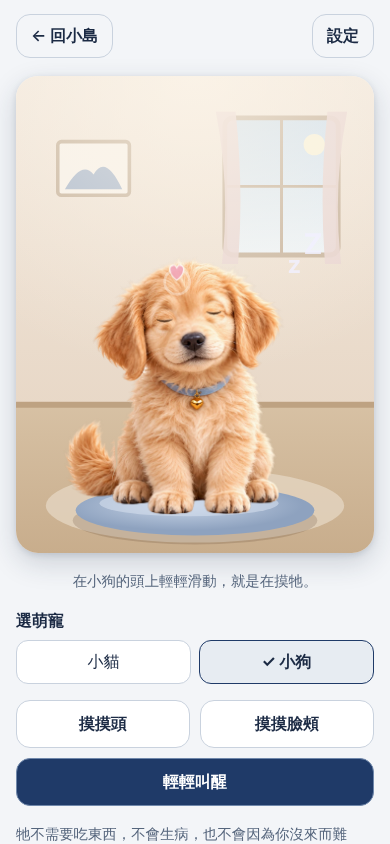
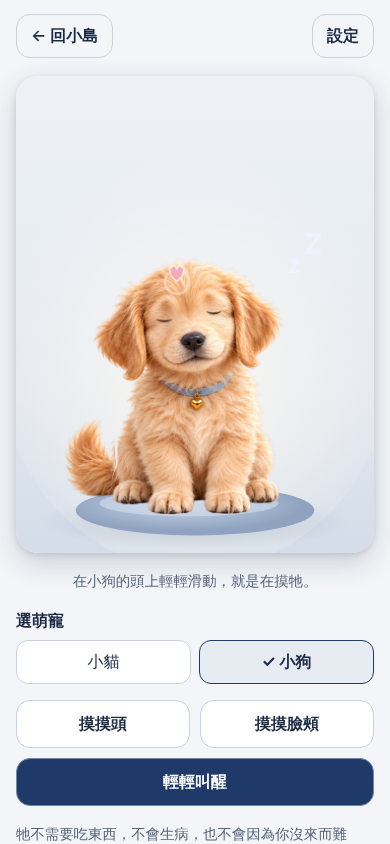
fix(companion): pre-made closed-eye fur layers; plain room backdrop
- scripts/make-lids.py builds a closed-eye layer per pet: OpenCV inpaint
  for the low-frequency fur colour plus fine fur detail from just above
  the eye; PetRig overlays it (preloaded, hidden while eyes are open)
  instead of borrowing a shifted copy of the image, which dragged the
  cat's forehead stripes onto its eyes
- Per-pet eye line tuning: the cat's smile arcs are shorter, thicker and
  lower so they no longer read as eyebrows; soft crease shadow under lines
- Room: remove wall, painting, window and curtains; seamless mist-white
  to blue-grey backdrop with floor shadow and cushion
- Service worker caches the lid layers (cache v3)

Claude-Session: https://claude.ai/code/session_01Jd1MLeqydxjbdWgjn7akAn

Changed region(s): [[0.0308, 0.1232, 0.9846, 0.6777], [0.4, 0.3697, 0.4308, 0.4005]]

diff --git a/src/features/companion/PetRig.tsx b/src/features/companion/PetRig.tsx
@@ -4,13 +4,17 @@ import { PET_IMAGE } from '../energy/ui/components/PetFigure';
 import type { Action, Mood, Reaction } from './useCompanionMood';
 
 // 2.5D 萌寵：同一張已核准的去背圖，以 clipPath 切成頭、身體、尾巴三層，
-// 分別繞關節點轉動；眼皮用同一張圖眼睛上方的毛色蓋住眼睛，只用來眨眼、瞇眼與睡覺。不重繪、不換角色。
-// 眼睛範圍依實際圖片量測（含深色眼眶）；from 是借用毛色的位移，必須讓借來的區域完全在眼睛上方。
-interface Eye { cx: number; cy: number; rx: number; ry: number; from: readonly [number, number] }
+// 分別繞關節點轉動。閉眼時疊上「閉眼毛色層」（scripts/make-lids.py 由原圖修補眼睛區域產生，
+// 保留周圍毛流），再畫閉眼線；只用來眨眼、瞇眼與睡覺。不重繪、不換角色。
+// 眼睛範圍依實際圖片量測（含深色眼眶），需與 make-lids.py 一致。
+interface Eye { cx: number; cy: number; rx: number; ry: number }
 interface RigSpec {
   x: number; y: number; // 在房間（600×800）裡的位置
   head: string; body: string; tail: string; // clip 多邊形（圖片座標）
-  eyes: readonly Eye[]; lidPad: readonly [number, number]; lidColor: string;
+  eyes: readonly Eye[]; lidColor: string;
+  // 閉眼線：寬度（相對眼睛寬）與中間粗細（相對眼睛高）；小貓眼睛很大，線短一點、低一點才不像眉毛
+  // drop：線相對眼睛中心往下移（相對眼睛高）
+  lidLine: { width: number; thick: number; drop: number };
   // 觸摸區域：頭部橢圓與左右臉頰的分界
   headArea: { cx: number; cy: number; rx: number; ry: number; cheekY: number; cheekLeftX: number; cheekRightX: number; bodyY: number };
   origins: { breath: string; head: string; tail: string }; // CSS transform-origin
@@ -22,8 +26,8 @@ export const RIGS: Record<Pet, RigSpec> = {
     head: '0,0 361,0 361,252 262,262 200,286 128,282 0,262',
     body: '0,236 361,236 361,436 92,436 92,300 0,300',
     tail: '0,292 98,292 98,425 0,425',
-    eyes: [{ cx: 138, cy: 171, rx: 29, ry: 24, from: [0, 62] }, { cx: 236, cy: 146, rx: 27, ry: 25, from: [18, 62] }],
-    lidPad: [13, 10], lidColor: '#5a3420',
+    eyes: [{ cx: 138, cy: 171, rx: 29, ry: 24 }, { cx: 236, cy: 146, rx: 27, ry: 25 }],
+    lidColor: '#5a3420', lidLine: { width: 0.62, thick: 0.17, drop: 0.18 },
     headArea: { cx: 190, cy: 150, rx: 150, ry: 125, cheekY: 175, cheekLeftX: 125, cheekRightX: 255, bodyY: 250 },
     origins: { breath: '190px 430px', head: '195px 268px', tail: '85px 385px' },
   },
@@ -33,8 +37,8 @@ export const RIGS: Record<Pet, RigSpec> = {
     head: '0,0 373,0 373,200 300,200 278,212 220,224 165,214 140,212 0,212',
     body: '0,190 373,190 373,436 0,436 0,404 78,404 82,372 90,350 90,270 0,270',
     tail: '0,270 90,270 90,350 82,372 78,404 0,404',
-    eyes: [{ cx: 170, cy: 108, rx: 15, ry: 13, from: [0, 40] }, { cx: 253, cy: 96, rx: 14, ry: 13, from: [0, 40] }],
-    lidPad: [7, 7], lidColor: '#4a2c18',
+    eyes: [{ cx: 170, cy: 108, rx: 15, ry: 13 }, { cx: 253, cy: 96, rx: 14, ry: 13 }],
+    lidColor: '#4a2c18', lidLine: { width: 0.88, thick: 0.2, drop: 0 },
     headArea: { cx: 215, cy: 115, rx: 160, ry: 115, cheekY: 125, cheekLeftX: 150, cheekRightX: 280, bodyY: 205 },
     origins: { breath: '186px 430px', head: '220px 222px', tail: '88px 380px' },
   },
@@ -57,30 +61,32 @@ export function regionAt(x: number, y: number, pet: Pet = 'cat'): Region {
 }
 
 // 閉眼線畫成兩端尖、中間粗的彎月形，比等粗的線自然。
-// 開心是「^」笑眼，弧頂略高於眼睛中心；睡覺與眨眼是往下彎的「‿」。
-function closedEye(eye: Eye, happy: boolean) {
-  const half = eye.rx * 0.88; const t = eye.ry * 0.2;
+// 開心是「^」笑眼；睡覺與眨眼是往下彎的「‿」。
+function closedEye(eye: Eye, line: RigSpec['lidLine'], happy: boolean) {
+  const half = eye.rx * line.width; const t = eye.ry * line.thick; const cy = eye.cy + eye.ry * line.drop;
   const left = eye.cx - half; const right = eye.cx + half;
   const [endY, ctrlY, inner] = happy
-    ? [eye.cy + eye.ry * 0.12, eye.cy - eye.ry * 0.78, 2 * t]
-    : [eye.cy - eye.ry * 0.05, eye.cy + eye.ry * 0.6, -2 * t];
+    ? [cy + eye.ry * 0.12, cy - eye.ry * 0.85, 2 * t]
+    : [cy - eye.ry * 0.05, cy + eye.ry * 0.6, -2 * t];
   return `M ${left} ${endY} Q ${eye.cx} ${ctrlY} ${right} ${endY} Q ${eye.cx} ${ctrlY + inner} ${left} ${endY} Z`;
 }
 
-// 眼皮：借用眼睛上方的真實毛色蓋住眼睛，以羽化遮罩融入周圍，再畫上閉眼線。
+// 眼皮：疊上閉眼毛色層蓋住眼睛，再畫閉眼線；線下方有一道柔和的陰影，像毛皮的摺痕。
+// 毛色層一直掛著（睜眼時隱藏），第一次眨眼前就已載入，不會閃一下。
 function Lids({ pet, mood, blink }: { pet: Pet; mood: Mood; blink: boolean }) {
-  if (mood === 'idle' && !blink) return null;
   const rig = RIGS[pet]; const image = PET_IMAGE[pet];
+  const lids = <image href={image.lids} width={image.width} height={image.height} visibility="hidden" />;
+  if (mood === 'idle' && !blink) return lids;
   const happy = mood === 'happy' && !blink;
   return (
     <g className="rig-lids">
-      {rig.eyes.map((eye, i) => {
+      <image href={image.lids} width={image.width} height={image.height} />
+      {rig.eyes.map(eye => {
+        const d = closedEye(eye, rig.lidLine, happy);
         return (
           <g key={eye.cx}>
-            <g mask={`url(#rig-${pet}-eye-mask-${i})`}>
-              <image href={image.src} width={image.width} height={image.height} transform={`translate(${eye.from[0]} ${eye.from[1]})`} />
-            </g>
-            <path d={closedEye(eye, happy)} fill={rig.lidColor} stroke={rig.lidColor} strokeWidth={eye.ry * 0.05} strokeLinejoin="round" />
+            <path d={d} fill={rig.lidColor} opacity="0.35" filter={`url(#rig-${pet}-crease)`} transform={`translate(0 ${eye.ry * 0.08})`} />
+            <path d={d} fill={rig.lidColor} stroke={rig.lidColor} strokeWidth={eye.ry * 0.04} strokeLinejoin="round" />
           </g>
         );
       })}
@@ -103,12 +109,7 @@ export function PetRig({ pet, mood, action, blink, lean, reaction = null, deligh
         <clipPath id={id('head')}><polygon points={rig.head} /></clipPath>
         <clipPath id={id('body')}><polygon points={rig.body} /></clipPath>
         <clipPath id={id('tail')}><polygon points={rig.tail} /></clipPath>
-        <radialGradient id={id('fade')}><stop offset="0.8" stopColor="#fff" /><stop offset="1" stopColor="#fff" stopOpacity="0" /></radialGradient>
-        {rig.eyes.map((eye, i) => (
-          <mask key={i} id={id(`eye-mask-${i}`)} maskUnits="userSpaceOnUse" x="0" y="0" width={width} height={height}>
-            <ellipse cx={eye.cx} cy={eye.cy} rx={eye.rx + rig.lidPad[0]} ry={eye.ry + rig.lidPad[1]} fill={`url(#${id('fade')})`} />
-          </mask>
-        ))}
+        <filter id={id('crease')} x="-20%" y="-50%" width="140%" height="200%"><feGaussianBlur stdDeviation="1.6" /></filter>
       </defs>
       <g className="rig-breath">
         <g className="rig-react">

diff --git a/src/features/companion/CompanionScreen.tsx b/src/features/companion/CompanionScreen.tsx
@@ -95,30 +95,19 @@ export function CompanionScreen({ pet = 'cat', onPetChange, soundEnabled, volume
         role="img" aria-label={delight ? copy.delight[pet] : copy.state[pet][mood]}
         onPointerDown={onPointerDown} onPointerMove={onPointerMove} onPointerUp={onPointerUp} onPointerCancel={onPointerUp}>
         <defs>
-          <linearGradient id="room-wall" x1="0" y1="0" x2="0" y2="1"><stop offset="0" stopColor="#f3e9de" /><stop offset="1" stopColor="#e9d9c8" /></linearGradient>
-          <linearGradient id="room-floor" x1="0" y1="0" x2="0" y2="1"><stop offset="0" stopColor="#d8c2a5" /><stop offset="1" stopColor="#c9ae8d" /></linearGradient>
-          <linearGradient id="room-sky" x1="0" y1="0" x2="0" y2="1"><stop offset="0" stopColor="#cfe0ef" /><stop offset="1" stopColor="#eef4f8" /></linearGradient>
+          {/* 無縫背景：沒有牆、窗戶與掛畫，只有由上而下的霧白到藍灰，地面附近稍微暖一點 */}
+          <linearGradient id="room-bg" x1="0" y1="0" x2="0" y2="1">
+            <stop offset="0" stopColor="#eef2f7" /><stop offset="0.62" stopColor="#e3e9f1" /><stop offset="1" stopColor="#d3dce8" />
+          </linearGradient>
+          <radialGradient id="room-glow" cx="50%" cy="58%" r="55%"><stop offset="0" stopColor="#fffaf2" stopOpacity="0.85" /><stop offset="1" stopColor="#fffaf2" stopOpacity="0" /></radialGradient>
           <radialGradient id="room-cushion" cx="45%" cy="40%"><stop offset="0" stopColor="#c9d6e8" /><stop offset="1" stopColor="#8fa3c0" /></radialGradient>
-          <radialGradient id="room-light" cx="50%" cy="0%" r="90%"><stop offset="0" stopColor="#fff8ec" stopOpacity="0.7" /><stop offset="1" stopColor="#fff8ec" stopOpacity="0" /></radialGradient>
+          <radialGradient id="room-shadow"><stop offset="0" stopColor="#3c4a64" stopOpacity="0.22" /><stop offset="1" stopColor="#3c4a64" stopOpacity="0" /></radialGradient>
         </defs>
-        <rect width={ROOM_W} height="560" fill="url(#room-wall)" />
-        {/* 窗戶與窗簾 */}
-        <rect x="350" y="70" width="190" height="230" rx="14" fill="url(#room-sky)" stroke="#c6b29b" strokeWidth="8" />
-        <line x1="445" y1="70" x2="445" y2="300" stroke="#c6b29b" strokeWidth="5" />
-        <line x1="350" y1="185" x2="540" y2="185" stroke="#c6b29b" strokeWidth="5" />
-        {sleeping && <circle cx="500" cy="115" r="18" fill="#fdf4d8" opacity="0.9" />}
-        <path d="M335 60 Q 360 190 345 315 L 372 315 Q 382 190 368 60 Z" fill="#e9d5d1" opacity="0.9" />
-        <path d="M555 60 Q 530 190 545 315 L 518 315 Q 508 190 522 60 Z" fill="#e9d5d1" opacity="0.9" />
-        {/* 牆上的小畫與植物 */}
-        <rect x="70" y="110" width="120" height="90" rx="6" fill="#f8f2ea" stroke="#c6b29b" strokeWidth="6" />
-        <path d="M82 190 Q 110 140 130 165 Q 150 130 178 190 Z" fill="#a8b7cc" />
-        <rect y="550" width={ROOM_W} height="250" fill="url(#room-floor)" />
-        <rect y="546" width={ROOM_W} height="10" fill="#bfa383" />
-        <ellipse cx="300" cy="720" rx="250" ry="62" fill="#e5d6c2" opacity="0.8" />
-        <ellipse cx="300" cy="745" rx="205" ry="40" fill="rgba(60,40,20,0.16)" />
+        <rect width={ROOM_W} height={ROOM_H} fill="url(#room-bg)" />
+        <ellipse cx="300" cy="470" rx="330" ry="360" fill="url(#room-glow)" pointerEvents="none" />
+        <ellipse cx="300" cy="748" rx="260" ry="46" fill="url(#room-shadow)" />
         <ellipse cx="300" cy="728" rx="200" ry="42" fill="url(#room-cushion)" />
         <ellipse cx="290" cy="716" rx="150" ry="22" fill="#d6e0ee" opacity="0.6" />
-        <rect width={ROOM_W} height="560" fill="url(#room-light)" pointerEvents="none" />
 
         <PetRig pet={pet} mood={mood} action={action} blink={blink} lean={lean} reaction={reaction} delight={delight} />
 

diff --git a/src/features/energy/ui/components/PetFigure.tsx b/src/features/energy/ui/components/PetFigure.tsx
@@ -5,9 +5,10 @@ import { copy } from '../copy';
 // 依部署路徑組合（Vercel 根目錄或預覽子路徑皆可）。
 export const CAT_SRC = `${import.meta.env.BASE_URL}assets/cat/cutout.png`;
 export const DOG_SRC = `${import.meta.env.BASE_URL}assets/dog/cutout.webp`;
-export const PET_IMAGE: Record<Pet, { src: string; width: number; height: number }> = {
-  cat: { src: CAT_SRC, width: 361, height: 436 },
-  dog: { src: DOG_SRC, width: 373, height: 436 },
+// lids：閉眼時疊在眼睛上的毛色層（萌寵陪伴屋用）
+export const PET_IMAGE: Record<Pet, { src: string; lids: string; width: number; height: number }> = {
+  cat: { src: CAT_SRC, lids: `${import.meta.env.BASE_URL}assets/cat/lids.webp`, width: 361, height: 436 },
+  dog: { src: DOG_SRC, lids: `${import.meta.env.BASE_URL}assets/dog/lids.webp`, width: 373, height: 436 },
 };
 
 export function PetFigure({ pet = 'cat', size = 'regular' }: { pet?: Pet; size?: 'regular' | 'compact' }) {

diff --git a/public/sw.js b/public/sw.js
@@ -1,7 +1,7 @@
 // 小貓能量站離線快取：不追蹤、不上傳，只快取本站檔案。
 // 版本號變更時清除舊快取；部署新版時 index.html 走網路優先，打包檔名含雜湊可放心快取。
-const CACHE = 'kitten-energy-v2';
-const SHELL = ['./', 'manifest.webmanifest', 'assets/cat/cutout.png', 'assets/dog/cutout.webp', 'icons/icon-192.png', 'icons/icon-512.png', 'icons/apple-touch-icon.png'];
+const CACHE = 'kitten-energy-v3';
+const SHELL = ['./', 'manifest.webmanifest', 'assets/cat/cutout.png', 'assets/dog/cutout.webp', 'assets/cat/lids.webp', 'assets/dog/lids.webp', 'icons/icon-192.png', 'icons/icon-512.png', 'icons/apple-touch-icon.png'];
 
 self.addEventListener('install', event => {
   event.waitUntil((async () => {

diff --git a/scripts/make-lids.py b/scripts/make-lids.py
@@ -1,0 +1,43 @@
+import sys, cv2, numpy as np
+from PIL import Image
+# 閉眼毛色層：低頻顏色用修補（inpaint）後模糊，高頻毛流借用眼睛上方的毛的細節。
+def make(src, scale, eyes, out, preview, pad=1.32, feather=1.7, detail_sigma=1.6, low_sigma=5):
+    im=np.array(Image.open(src).convert('RGBA')).astype(np.float32)
+    H,W=im.shape[:2]
+    rgb=im[:,:,:3]
+    mask=np.zeros((H,W),np.uint8)
+    for e in eyes:
+        cx,cy,rx,ry=[v*scale for v in e[:4]]
+        cv2.ellipse(mask,(int(cx),int(cy)),(int(rx*pad),int(ry*pad)),0,0,360,255,-1)
+    fill=cv2.inpaint(rgb.astype(np.uint8),mask,int(8*scale),cv2.INPAINT_TELEA).astype(np.float32)
+    low=cv2.GaussianBlur(fill,(0,0),low_sigma*scale)
+    detail_src=cv2.GaussianBlur(rgb,(0,0),detail_sigma*scale)
+    detail=rgb-detail_src  # 原圖的高頻細節
+    result=rgb.copy()
+    yy,xx=np.mgrid[0:H,0:W]
+    alpha=np.zeros((H,W),np.float32)
+    for e in eyes:
+        cx,cy,rx,ry=[v*scale for v in e[:4]]; dx,dy=[v*scale for v in e[4]]
+        # 從眼睛上方 (dx,dy) 借毛流細節
+        M=np.float32([[1,0,dx],[0,1,dy]])
+        shifted=cv2.warpAffine(detail,M,(W,H),borderMode=cv2.BORDER_REFLECT)
+        d=np.sqrt(((xx-cx)/(rx*pad))**2+((yy-cy)/(ry*pad))**2)
+        inside=d<=feather
+        tex=np.clip(low+shifted*1.1,0,255)
+        w=np.clip((feather-d)/(feather-1.0),0,1)[:,:,None]  # 1 inside the eye cover
+        result=np.where(inside[:,:,None], result*(1-w)+tex*w, result)
+        alpha=np.maximum(alpha,np.clip((feather-d)/0.15,0,1))
+    out_img=np.zeros((H,W,4),np.uint8)
+    out_img[:,:,:3]=np.clip(result,0,255).astype(np.uint8)
+    out_img[:,:,3]=(np.clip(alpha,0,1)*im[:,:,3]).astype(np.uint8)
+    out_img[out_img[:,:,3]==0]=0  # 透明處清空，檔案才小
+    Image.fromarray(out_img).save(out)
+    base=Image.fromarray(im.astype(np.uint8)); top=Image.fromarray(out_img)
+    bg=Image.new('RGBA',base.size,(243,233,222,255)); bg.alpha_composite(base); bg.alpha_composite(top); bg.save(preview)
+# 用法：python3 scripts/make-lids.py <輸出暫存資料夾>
+# 產生 cat_lids.png / dog_lids.png 與預覽圖；確認後再轉存到 public/assets/{cat,dog}/。
+# 眼睛數值（cx, cy, rx, ry, 借毛流的位移）需與 src/features/companion/PetRig.tsx 的 eyes 一致。
+# 需要 opencv-python-headless、numpy、Pillow。
+S=sys.argv[1]
+make('public/assets/cat/cutout.png',1,[(138,171,29,24,(0,62)),(236,146,27,25,(18,62))],f'{S}/cat_lids.png',f'{S}/cat_lids_prev.png')
+make('public/assets/dog/cutout.webp',2,[(170,108,15,13,(0,40)),(253,96,14,13,(0,40))],f'{S}/dog_lids.png',f'{S}/dog_lids_prev.png')

diff --git a/docs/DECISIONS.md b/docs/DECISIONS.md
@@ -105,3 +105,5 @@
   - 支援的手機上，手指按下時輕震 8ms；減少動態時不震。
 - 減少動態：不做蹭、扭、跳、漣漪與愛心上升，愛心只在原地淡入淡出。
 - 使用者回饋「笑眼很奇怪」：依實際圖片重新量測眼睛範圍（含深色眼眶），並讓借來覆蓋的毛色完全取自眼睛上方，閉眼時不再透出原本的眼睛；閉眼線改為兩端尖、中間粗的彎月形，笑眼「^」的弧頂落在眼睛中心附近，不再像浮在上方的眉毛。
+- 使用者回饋「貓的笑眼更怪了」並要求查找修正方式。參考做法（2D 分層角色多半用一張「已閉眼的臉」或獨立眼皮圖層，而不是在紋理上切挖）：改為預先產生「閉眼毛色層」（`scripts/make-lids.py`：以 OpenCV 修補眼睛區域取得低頻毛色，再疊上眼睛上方毛流的高頻細節），閉眼時疊上這一層再畫閉眼線；不再即時借用上方毛色（小貓額頭的條紋會被搬到眼睛上）。小貓的笑眼線改短、略粗、位置略低，避免像眉毛。
+- 萌寵房間依使用者要求移除牆、掛畫、窗戶與窗簾，改為霧白到藍灰的無縫背景，只保留地面陰影與坐墊；睡著時整體變暗與 Zzz 保留。
